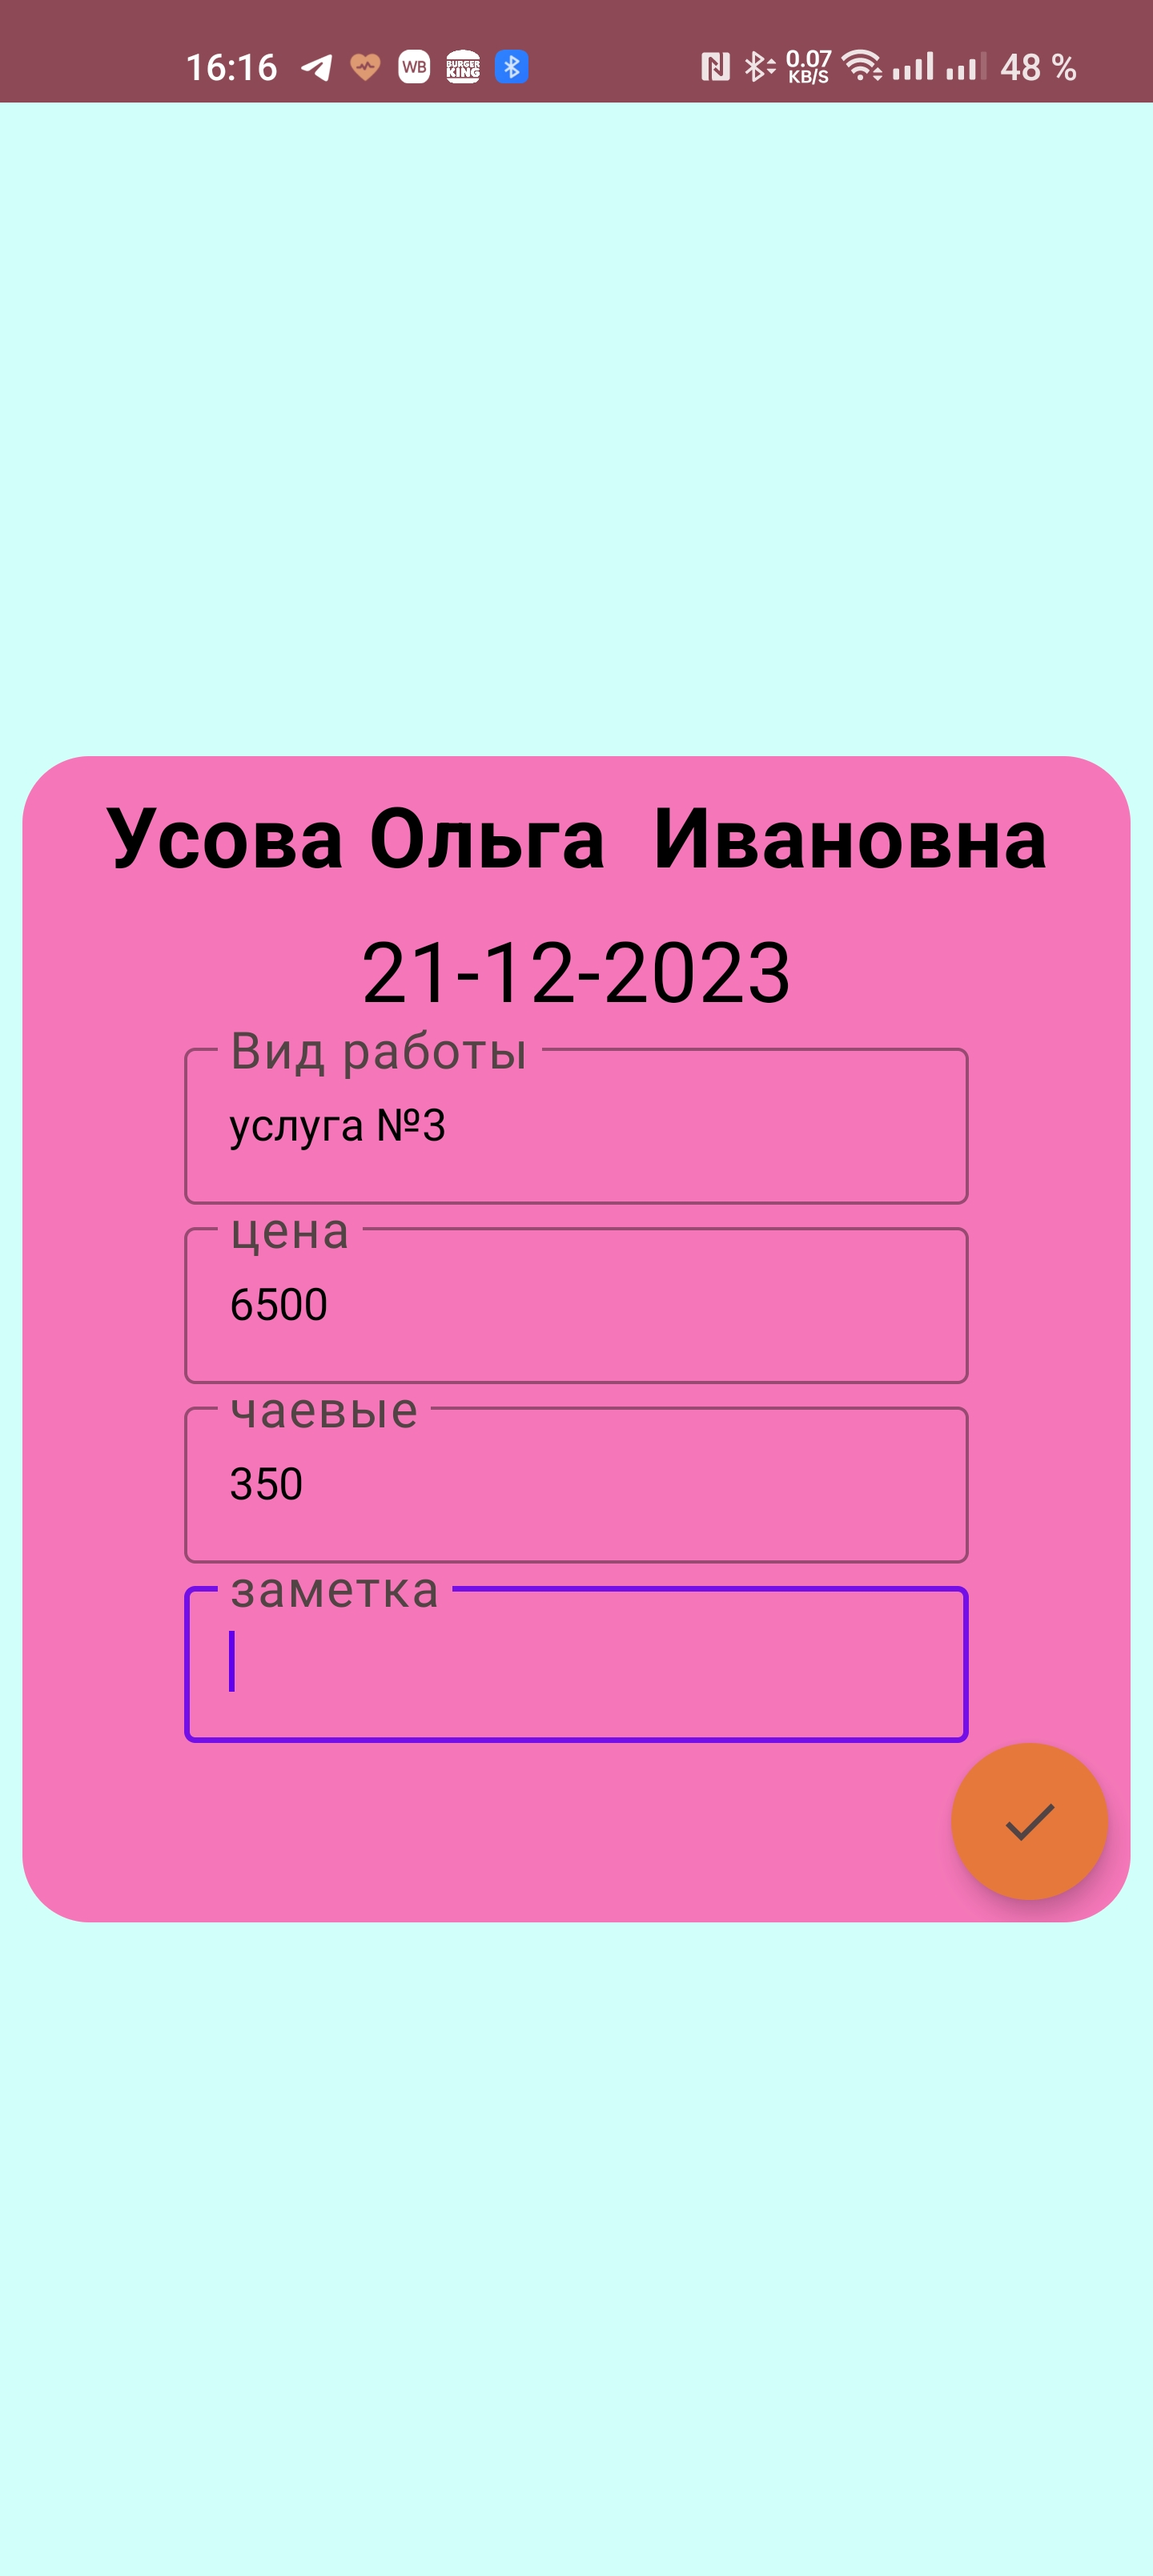
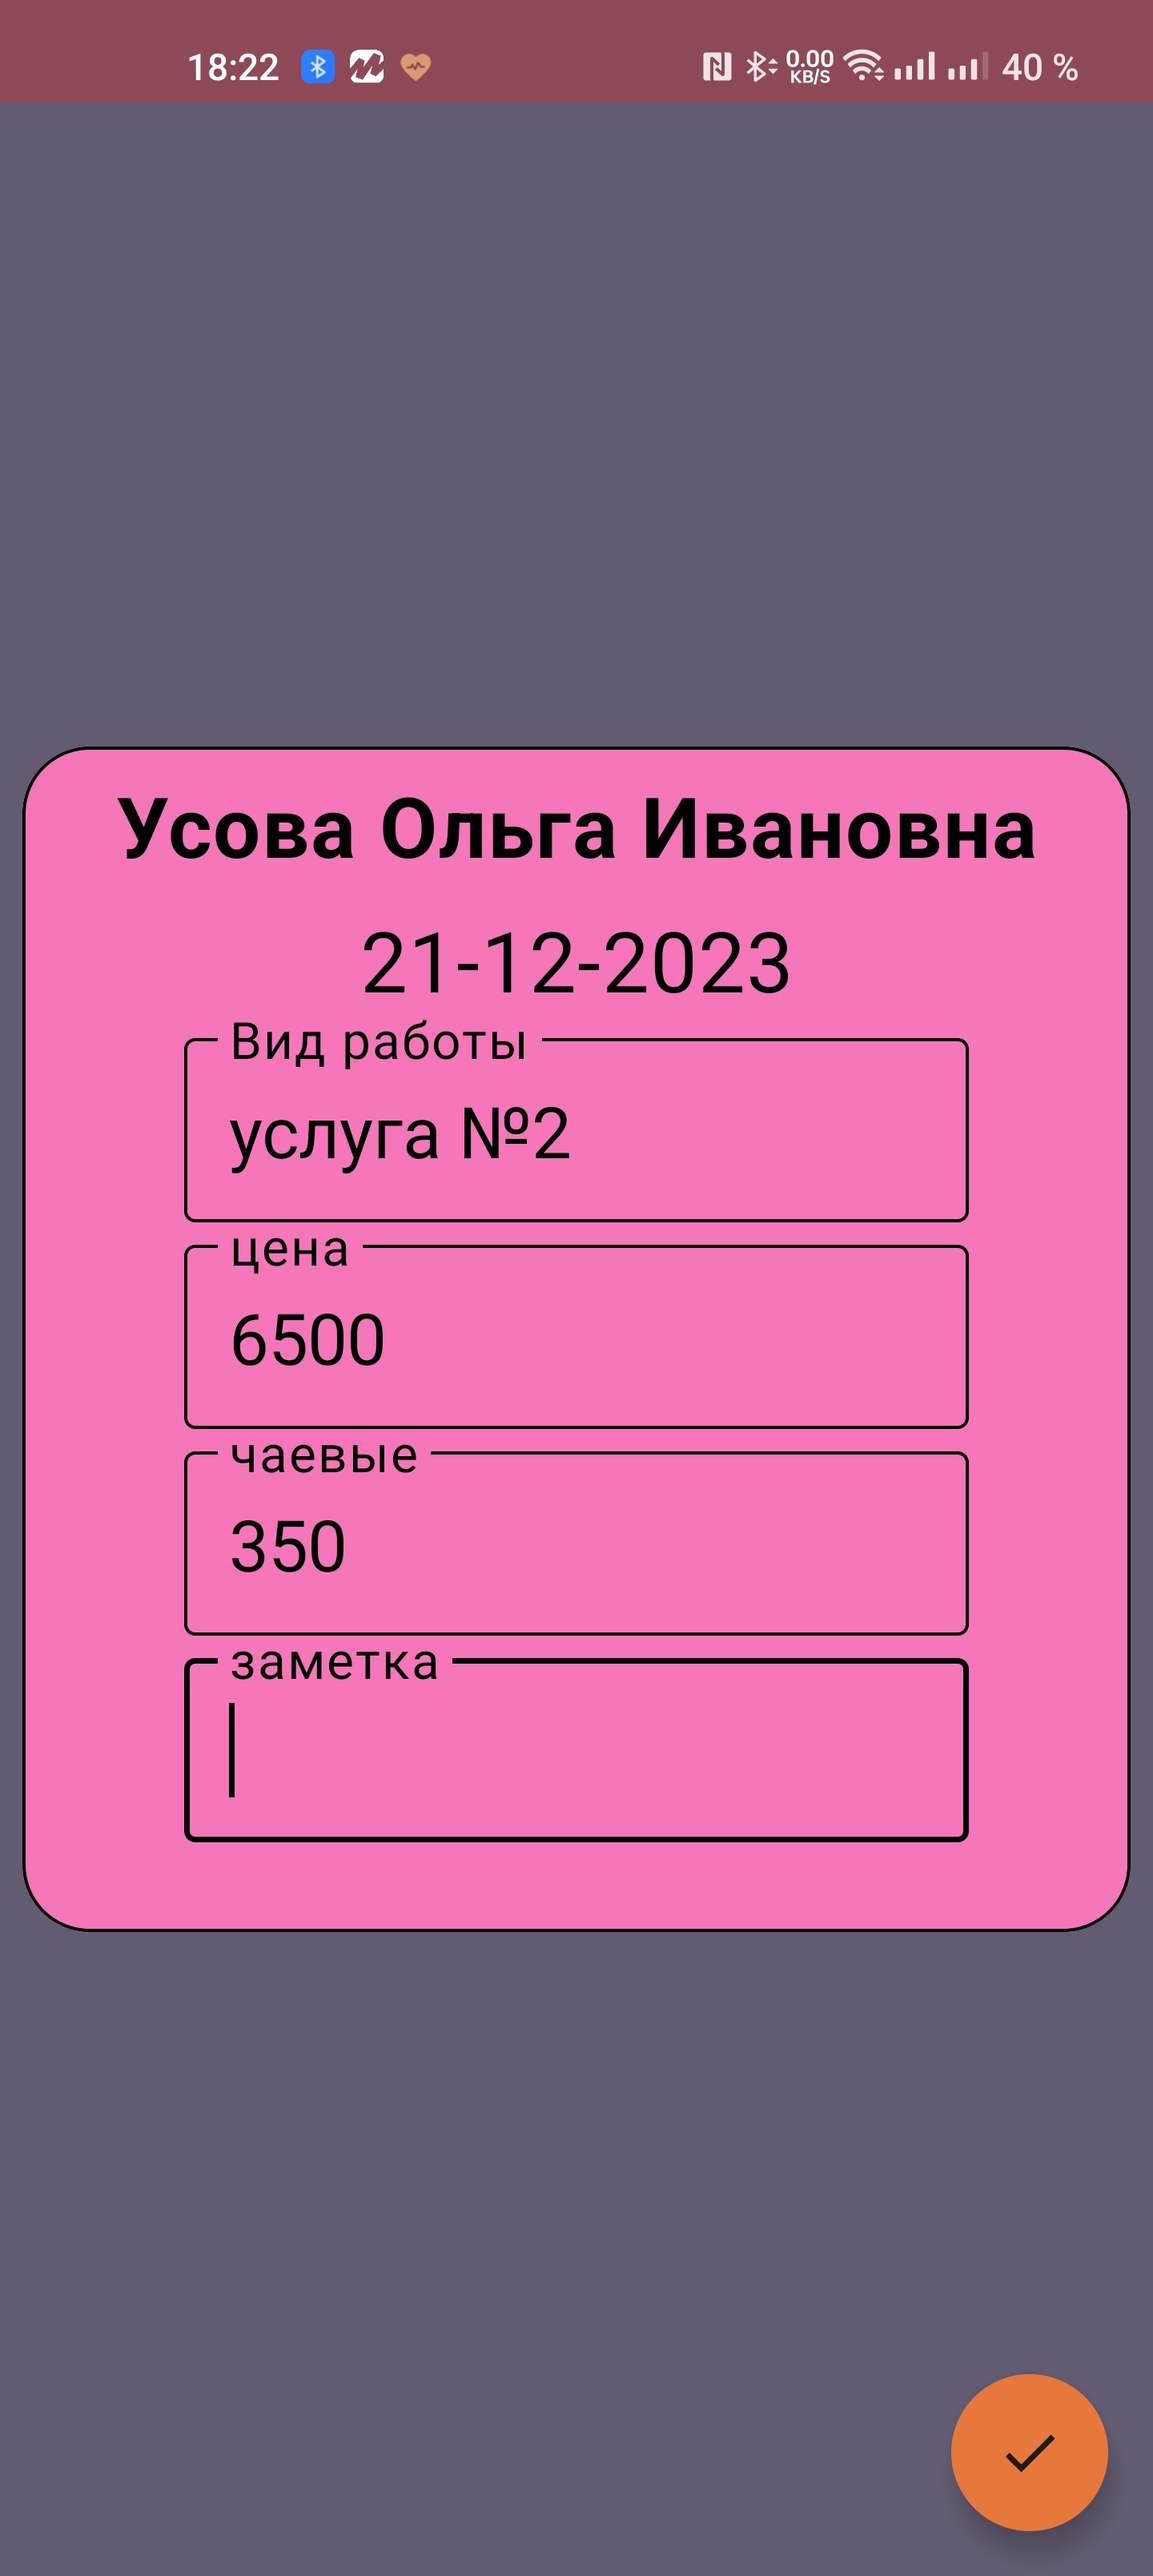
adding info in README.md

diff --git a/app/src/main/java/ru/zhogin/composeClientApp/compose/screens/SuccessfullCalendarDayEvent.kt b/app/src/main/java/ru/zhogin/composeClientApp/compose/screens/SuccessfullCalendarDayEvent.kt
@@ -5,7 +5,6 @@ import android.widget.Toast
 import androidx.compose.foundation.BorderStroke
 import androidx.compose.foundation.background
 import androidx.compose.foundation.layout.Arrangement
-import androidx.compose.foundation.layout.Box
 import androidx.compose.foundation.layout.Column
 import androidx.compose.foundation.layout.fillMaxSize
 import androidx.compose.foundation.layout.fillMaxWidth
@@ -18,6 +17,7 @@ import androidx.compose.material.FabPosition
 import androidx.compose.material.FloatingActionButton
 import androidx.compose.material.OutlinedTextField
 import androidx.compose.material.Scaffold
+import androidx.compose.material.TextFieldDefaults
 import androidx.compose.material.icons.Icons
 import androidx.compose.material.icons.filled.Done
 import androidx.compose.material3.Card
@@ -31,6 +31,7 @@ import androidx.compose.ui.Modifier
 import androidx.compose.ui.graphics.Color
 import androidx.compose.ui.platform.LocalContext
 import androidx.compose.ui.res.stringResource
+import androidx.compose.ui.text.TextStyle
 import androidx.compose.ui.text.font.FontWeight
 import androidx.compose.ui.text.input.KeyboardType
 import androidx.compose.ui.unit.dp
@@ -40,7 +41,6 @@ import ru.zhogin.composeClientApp.R
 import ru.zhogin.composeClientApp.dto.GenderType
 import ru.zhogin.composeClientApp.services.MyUtils
 import ru.zhogin.composeClientApp.ui.theme.MyBlue
-import ru.zhogin.composeClientApp.ui.theme.MyGrey
 import ru.zhogin.composeClientApp.ui.theme.MyPink
 import ru.zhogin.composeClientApp.ui.theme.Orange
 import ru.zhogin.composeClientApp.ui.theme.PurpleGrey40
@@ -201,7 +201,17 @@ fun SuccessfulCalendarDayEvent(
                     OutlinedTextField(
                         value = typeOfWork.value,
                         onValueChange = { typeOfWork.value = it },
-                        label = { Text(text = stringResource(id = R.string.type_of_work)) }
+                        label = { Text(text = stringResource(id = R.string.type_of_work),
+                            color = Color.Black,) },
+                        colors = TextFieldDefaults.outlinedTextFieldColors(
+                            focusedBorderColor = Color.Black,
+                            unfocusedBorderColor = Color.Black,
+                            cursorColor = Color.Black,
+                        ),
+                        textStyle = TextStyle(
+                            color = Color.Black,
+                            fontSize = 22.sp,
+                        ),
                     )
 
 
@@ -215,21 +225,51 @@ fun SuccessfulCalendarDayEvent(
                     OutlinedTextField(
                         value = price.value,
                         onValueChange = { price.value = it },
-                        label = { Text(text = stringResource(id = R.string.price)) },
-                        keyboardOptions = KeyboardOptions(keyboardType = KeyboardType.Decimal)
+                        label = { Text(text = stringResource(id = R.string.price),
+                            color = Color.Black,) },
+                        keyboardOptions = KeyboardOptions(keyboardType = KeyboardType.Decimal),
+                        colors = TextFieldDefaults.outlinedTextFieldColors(
+                            focusedBorderColor = Color.Black,
+                            unfocusedBorderColor = Color.Black,
+                            cursorColor = Color.Black,
+                        ),
+                        textStyle = TextStyle(
+                            color = Color.Black,
+                            fontSize = 22.sp,
+                        ),
                     )
                     OutlinedTextField(
                         value = tips.value,
                         onValueChange = { tips.value = it },
-                        label = { Text(text = stringResource(id = R.string.tips)) },
-                        keyboardOptions = KeyboardOptions(keyboardType = KeyboardType.Decimal)
+                        label = { Text(text = stringResource(id = R.string.tips),
+                            color = Color.Black,) },
+                        keyboardOptions = KeyboardOptions(keyboardType = KeyboardType.Decimal),
+                        colors = TextFieldDefaults.outlinedTextFieldColors(
+                            focusedBorderColor = Color.Black,
+                            unfocusedBorderColor = Color.Black,
+                            cursorColor = Color.Black,
+                        ),
+                        textStyle = TextStyle(
+                            color = Color.Black,
+                            fontSize = 22.sp,
+                        ),
                     )
 
                     OutlinedTextField(
                         value = note.value,
                         onValueChange = { note.value = it },
-                        label = { Text(text = stringResource(id = R.string.note)) },
-                        modifier = Modifier.padding(bottom = 32.dp)
+                        label = { Text(text = stringResource(id = R.string.note),
+                            color = Color.Black,) },
+                        modifier = Modifier.padding(bottom = 32.dp),
+                        colors = TextFieldDefaults.outlinedTextFieldColors(
+                            focusedBorderColor = Color.Black,
+                            unfocusedBorderColor = Color.Black,
+                            cursorColor = Color.Black,
+                        ),
+                        textStyle = TextStyle(
+                            color = Color.Black,
+                            fontSize = 22.sp,
+                        ),
                     )
 
 
